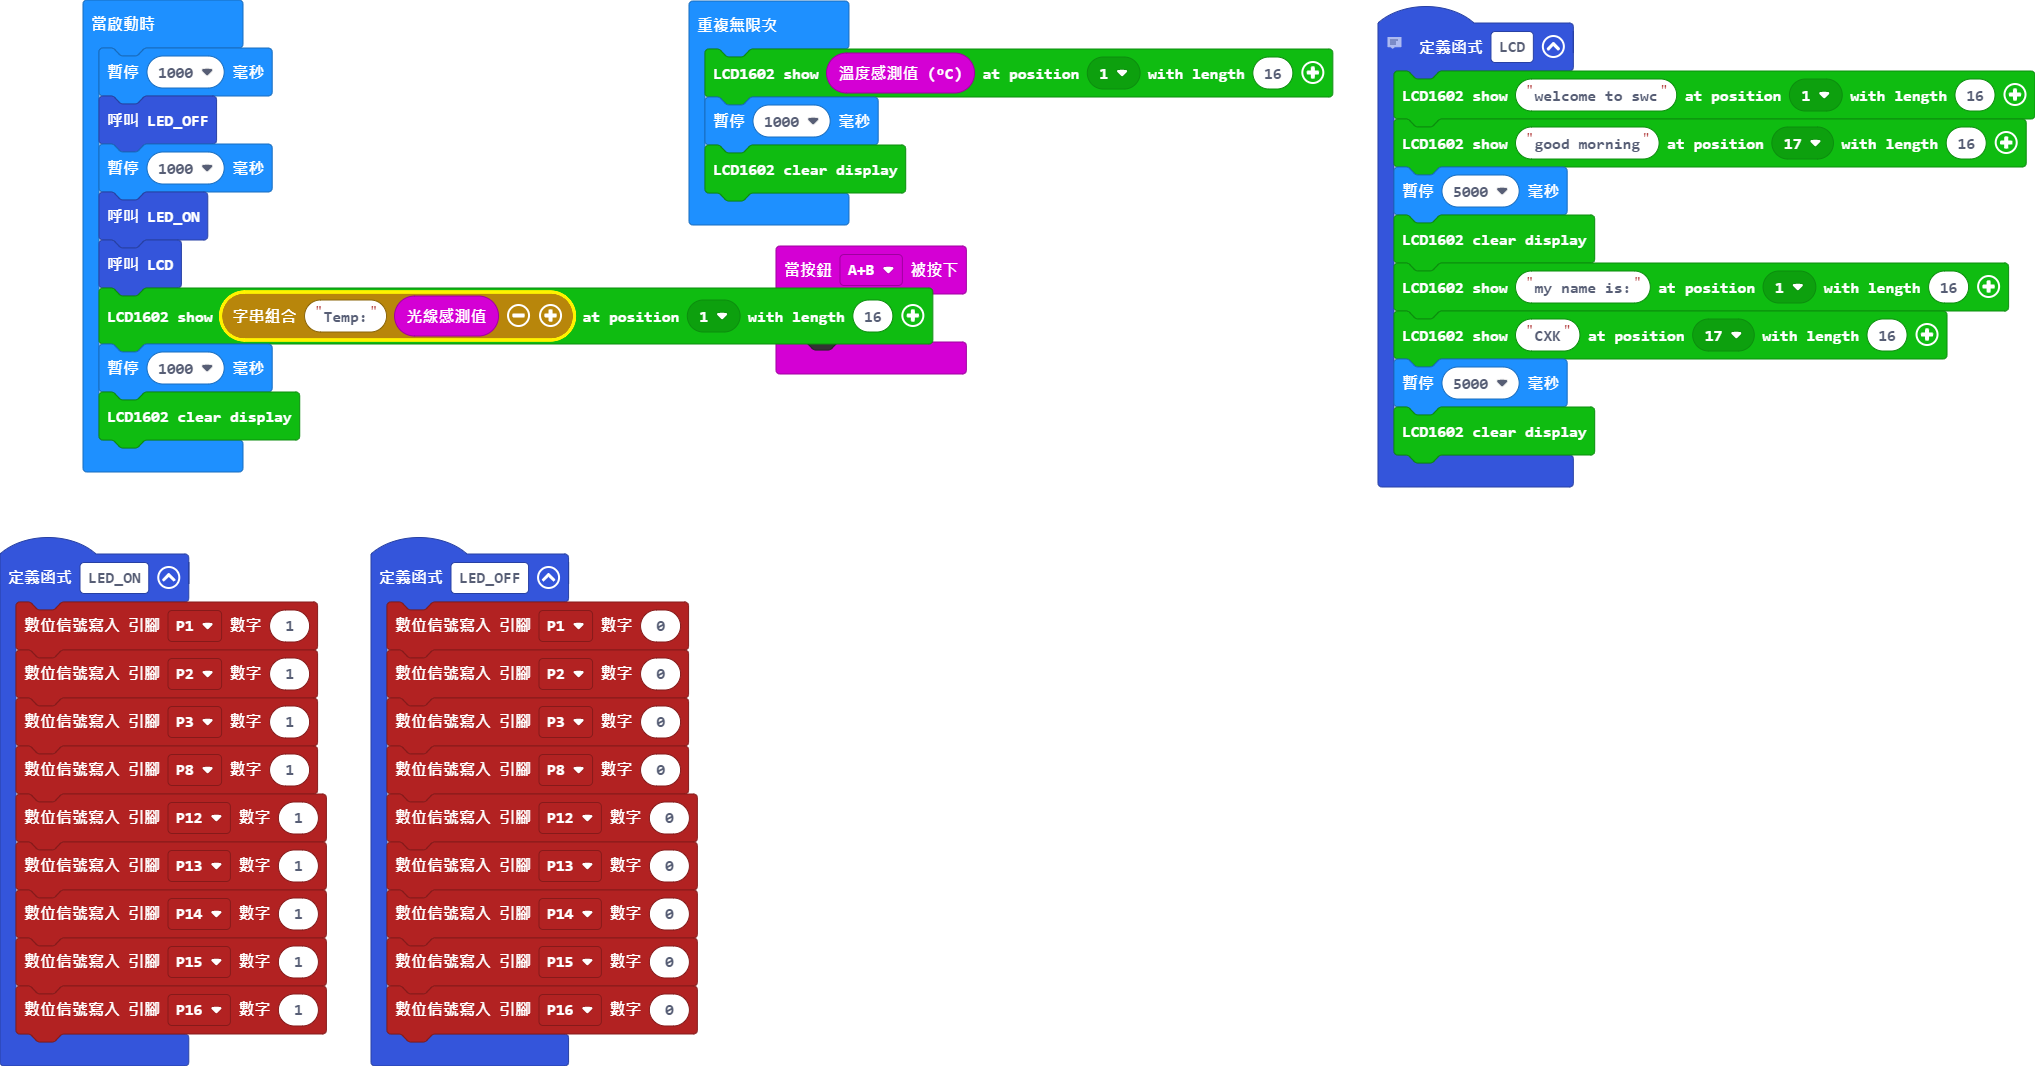
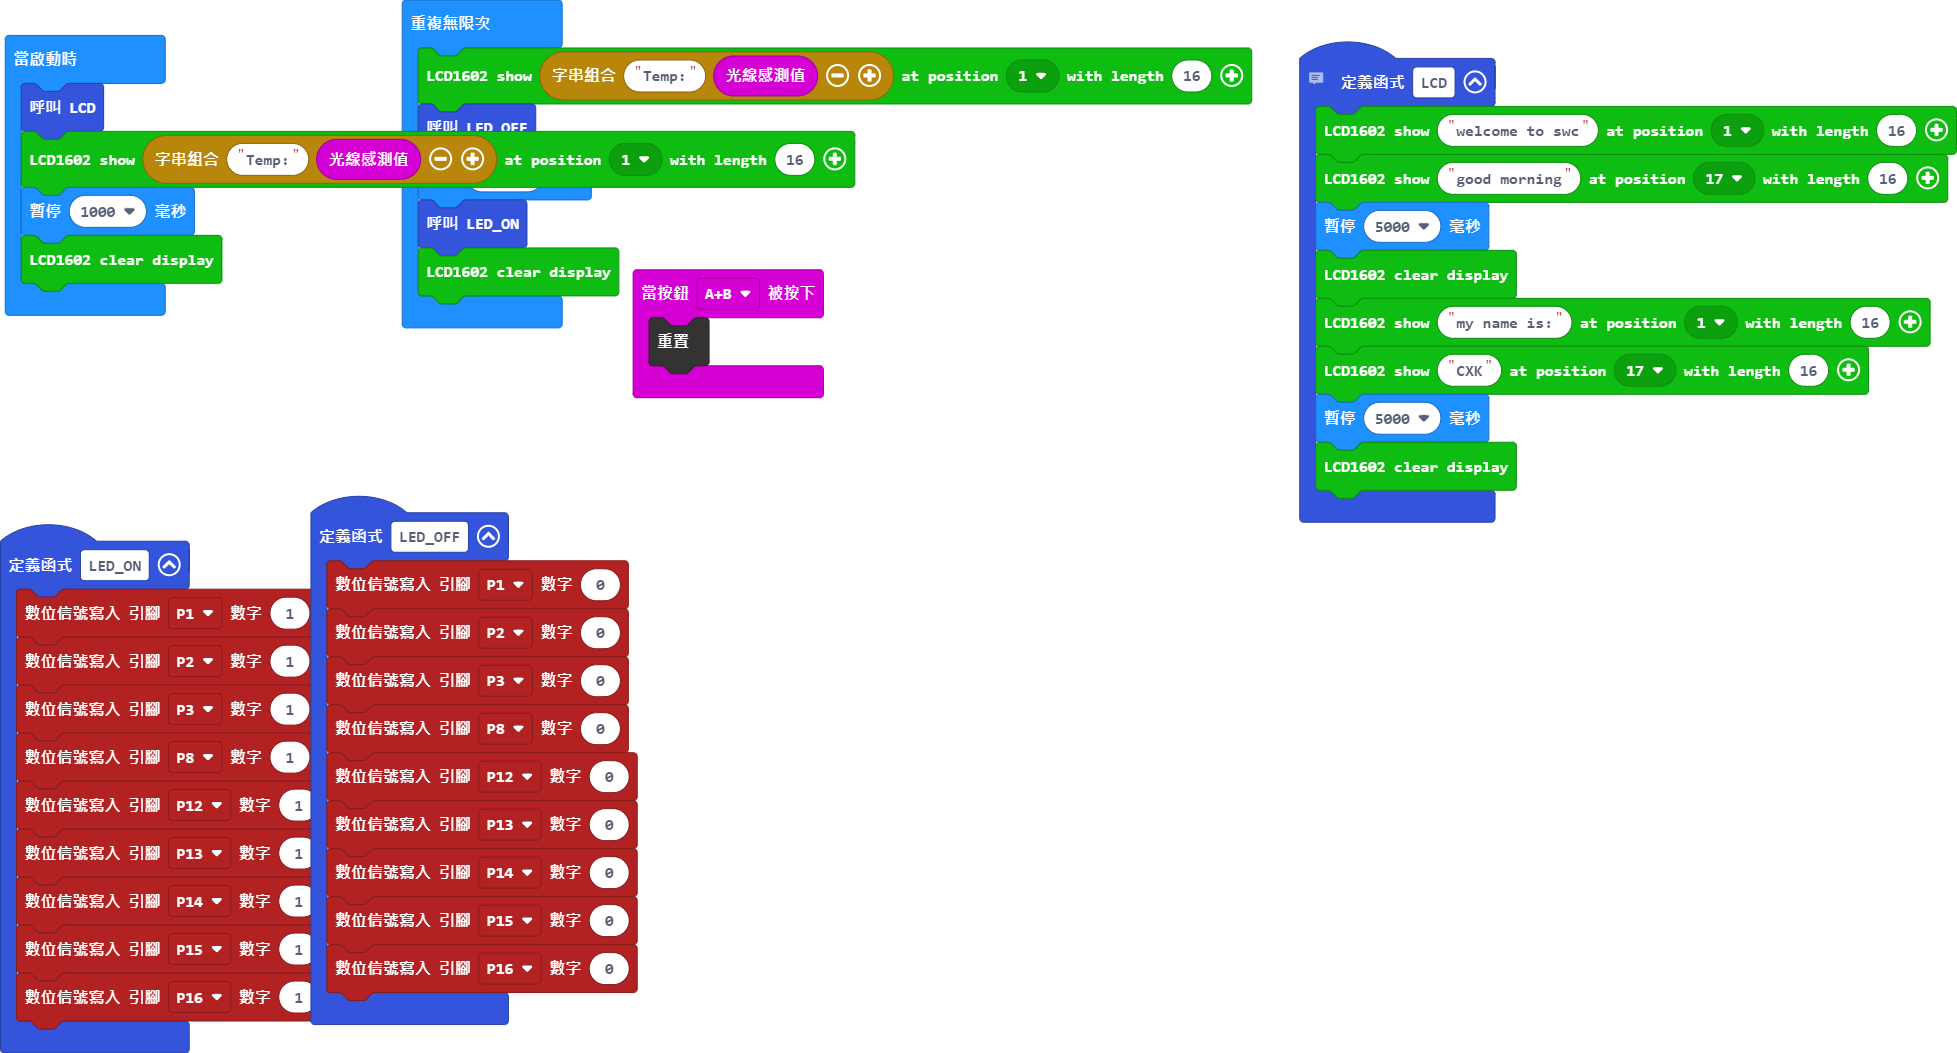
更新 main.blocks, main.ts

Changed region(s): [[0.0, 0.0, 1.0, 0.5166], [0.0, 0.4558, 0.3429, 1.0]]

diff --git a/main.ts b/main.ts
@@ -76,16 +76,14 @@ function LED_ON () {
     pins.digitalWritePin(DigitalPin.P15, 1)
     pins.digitalWritePin(DigitalPin.P16, 1)
 }
-basic.pause(1000)
-LED_OFF()
-basic.pause(1000)
-LED_ON()
 LCD()
 makerbit.showStringOnLcd1602("Temp:" + input.lightLevel(), makerbit.position1602(LcdPosition1602.Pos1), 16)
 basic.pause(1000)
 makerbit.clearLcd1602()
 basic.forever(function () {
-    makerbit.showStringOnLcd1602("" + (input.temperature()), makerbit.position1602(LcdPosition1602.Pos1), 16)
+    makerbit.showStringOnLcd1602("Temp:" + input.lightLevel(), makerbit.position1602(LcdPosition1602.Pos1), 16)
+    LED_OFF()
     basic.pause(1000)
+    LED_ON()
     makerbit.clearLcd1602()
 })
